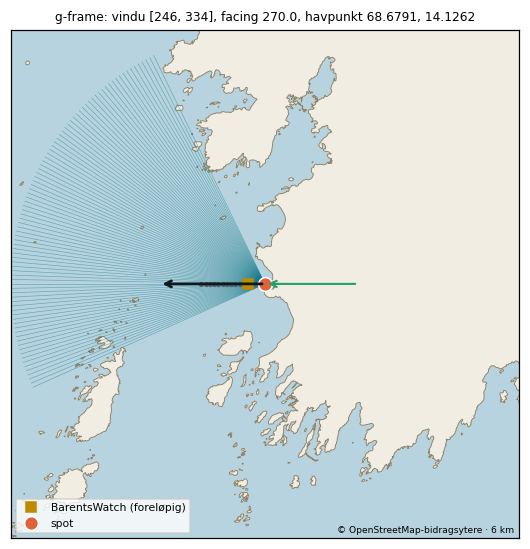
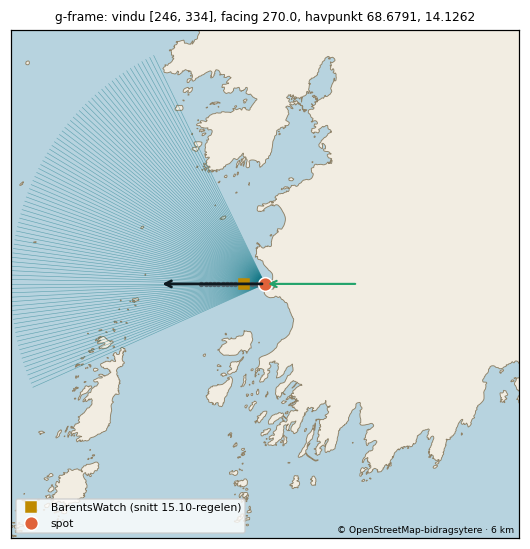
T1 Lofoten/Vesterålen: g-frame rettet (Theodors ja 12.11), fortsatt holdt tilbake
- facing 270 som bølgeretning ved revet (lavere sikkerhet), offshore [45, 135].
- BarentsWatch-punktet flyttet til 500 m ut langs 270 (9,2 m dyp) etter snittet
  12.11. Valgt på én time med svell fra vinduet; Hs og dybde holder i alle 18.
- enabled: false står. Slås på først med Theodors ja, etter neste vestsvell.
- Pakka og oversikten er tegnet på nytt. Fysikk-kontrollør: godkjent.

Changed region(s): [[0.2415, 0.898, 0.483, 0.9909], [0.4528, 0.4954, 0.483, 0.5264]]

diff --git a/data/kandidater/bygget/lofoten-vesteralen.md b/data/kandidater/bygget/lofoten-vesteralen.md
@@ -1,6 +1,6 @@
 # Gjennomgangspakke: Lofoten, Vesterålen (27 spots)
 
-Laget 2026-11-10 av tools/region_pakke.py fra spots.json (gjelder der spoten ligger inne) og fabrikkens forslag (data/kandidater/bygget/<id>.json). 15 publisert, 5 holdt tilbake, 3 parkert, 4 venter på lokalkunnskap.
+Laget 2026-11-12 av tools/region_pakke.py fra spots.json (gjelder der spoten ligger inne) og fabrikkens forslag (data/kandidater/bygget/<id>.json). 15 publisert, 5 holdt tilbake, 3 parkert, 4 venter på lokalkunnskap.
 
 Vindu: fri linje 150 km over GSHHS f (300 m kysttoleranse). Facing: strandnormal ±150 m langs kysten. Offshore-vind: motsatt av facing ±45° når ikke annet står. BarentsWatch-punkt: snittregelen 15.10 (første punkt utover med minst 8 m dyp og flat Hs). Tidevann: Kartverkets referansested for posisjonen. Vern: Naturbase innen 2 km, målt fra spotens posisjon der oppslaget finnes (ellers fra listepinnen, og da står det), forskriften lest på Lovdata. Sikkerhet: A = navn, strandtype, synlig bølge/formasjon og retning stemmer; B = to av fire; C = resten (bygges ikke).
 
@@ -11,6 +11,7 @@ Vindu: fri linje 150 km over GSHHS f (300 m kysttoleranse). Facing: strandnormal
 - **#22 er merget til main (10.11.2026).** Claudes gjennomgang 16.10 ga 14 godkjent og 6 rettet (20 nye spots), og flakstad-beach-kirkesiden og rorvika parkert. eggum-ost-steinstrand ble parkert samme dag, så 19 nye ligger i spots.json. 14 av dem er publisert, og 5 holdes tilbake. Med Unstad, som lå der fra før, er 15 spots i regionene live.
 - **Pakka er laget på nytt fra spots.json.** Den forrige utgaven av tabellen (16.10) viste verdiene fra før rettelsene (unstad-left 285°, soppelplassen 300°). Gjeldende verdier står i tabellene under.
 - **Rettet etter gjennomgangen 16.10:** unstad-left, unstad-right og soppelplassen har Unstads facing 294,8° (kontrollørens andre runde). horseid har facing 305°. g-frame har BarentsWatch-punktet flyttet fra 1 400 m til 1 900 m ut, fordi 1 400 m lå i et grunnfelt.
+- **g-frame 12.11.2026 (Theodors ja):** facing er satt til 270° som bølgeretning ved revet (ikke strandnormal, lavere sikkerhet), offshore til 45-135°, og BarentsWatch-punktet er flyttet til 500 m ut langs 270° (9,2 m dyp, snittet 12.11). Punktet er valgt på én time med Hs 0,36 m, så det bør ses igjen i neste vestsvell. Spoten er fortsatt holdt tilbake.
 - **Holdt tilbake siden 16.10:** g-frame, unstad-left, unstad-right og soppelplassen (`enabled: false`).
 - **Holdt tilbake 10.11:** ramberg, til T2b er avgjort (Theodors ja 10.11).
 - **Parkert:** eggum-ost-steinstrand (eget snitt 16.10 fant ikke noe punkt), rorvika og flakstad-beach-kirkesiden.
@@ -21,7 +22,7 @@ Vindu: fri linje 150 km over GSHHS f (300 m kysttoleranse). Facing: strandnormal
 Hele svaret ligger i `lofoten-vesteralen-gjennomgang.csv` (én linje per spot): **17 godkjent, 3 rett, 7 avvis.** Kommentarene for eggum, eggum-ost-steinstrand og g-frame er presisert etter kontrollørens gjennomgang (retningen til reservatet, snitt i stedet for spenn, og bølgeretningen i snittet). Beslutningene er uendret.
 
 - **Godkjent (17):** de 14 nye publiserte, Unstad, unstad-left og unstad-right. Facing ligger innenfor spennet OSM-kysten gir (±150 til ±500 m rundt spoten) for 13 av de 14 nye. Spennet er bredt for skagsanden (313-348°), haukland (210-235°) og kvalnes (337-348°). Unntaket er horseid, der 305° er satt med vilje (fabrikken gir 192-231°, langs stranda), så et nytt fabrikkbygg må ikke skrive over den.
-- **Rett (3):** g-frame, ramberg og soppelplassen. Ingen av dem er live, og ingenting er endret i spots.json. Se tabellen under.
+- **Rett (3):** g-frame, ramberg og soppelplassen. Ingen av dem er live. g-frame er rettet i spots.json 12.11 (fortsatt `enabled: false`), de to andre er uendret. Se tabellen under.
 - **Avvis (7):** aknes, andenes, broken-hearts og g-force venter på lokalkunnskap. eggum-ost-steinstrand, rorvika og flakstad-beach-kirkesiden blir stående parkert.
 
 Svar på spørsmålene til gjennomgangen:
@@ -35,7 +36,7 @@ Svar på spørsmålene til gjennomgangen:
 
 | Spot | Hva som mangler | Hvem |
 |---|---|---|
-| g-frame | Bølgene kom fra vest i snittet 16.10 (100 m til 3 km): medianen er 254-284° i alle snittpunktene utenom grunnfeltet ved 1 700-1 800 m, og 87 % av timene ligger innenfor 246-288°. Facing 330° følger kysten nordover. Spotansvarlig anbefaler facing ca. 270°, offshore 45-135° og nytt snitt langs 270°. BarentsWatch-punktet 1 900 m ut (9,9 m) ligger utenfor fabrikkens 1,5 km og har lavere sikkerhet. Teksten `_barentswatch` i spots.json nevner både det gjeldende punktet og det gamle (1 400 m, 6,0 m). Den ryddes sammen med facing. | Theodor (spørsmål i til-theodor.md) |
+| g-frame | Rettet 12.11 (Theodors ja): facing 270° som bølgeretning ved revet, offshore 45-135°, BarentsWatch-punkt 500 m ut langs 270° (9,2 m). Bakgrunn: bølgene kom fra vest i snittet 16.10 (medianen 254-284°), og revet har ingen entydig strandnormal. I snittet 12.11 kom svellet ute fra nord (bare én av 18 timer fra vinduet), og retningen ved punktet var 299-326°, altså 29-56° fra facing. 400 m-punktet (8,9 m) ga 0,20 m når 500 m ga 0,36 m kl. 12Z, og lå lavere enn 500 m i alle 18 timene (i 8 av dem med retning fra land), så regelen valgte 500 m. Gjenstår: se punktet og retningen i neste vestsvell, og så Theodors ja til å slå på. | Theodor |
 | unstad-left, unstad-right, soppelplassen | Ga 3,4-4,2 m når Unstad ga 1,6-1,8 m samme time i prøvevarselet 16.10 kl. 11Z (unstad-left ligger 250 m fra Unstad, unstad-right 485 m og soppelplassen 996 m). Unstads BarentsWatch-punkt (250 m ut) ligger trolig i brytesonen (ROADMAP N). Snittene deres ble tatt langs fabrikkens første facing (334° / 239° / 344°), ikke langs 294,8°. Når N er avgjort i T2: nye snitt langs 294,8° for unstad-left og unstad-right, og så ett samlet spørsmål til Theodor. | Theodor, etter T2 |
 | soppelplassen (i tillegg) | Offshore-vinden er utvidet til 70-209° uten observasjon eller navngitt kilde. Spotansvarlig anbefaler 70-160°. Høydene [1,5, 3,5] mangler begrunnelse. Det samme gjelder høydene for g-frame, unstad-left og unstad-right («forslag fra Claude 16.10, ukalibrert»). Tas i det samlede spørsmålet etter N. | Theodor, etter T2 |
 | ramberg | Venter på T2b (Unstad mot Flakstad). Posisjonen og punktet (900 m ut, 9,6 m) er godkjent av spotansvarlig. Facing 287,7° er strandnormalen, men ligger 9° utenfor eget vindu (297-348°), og bølgene ved punktet kom fra 327-330°. Facing 315° og offshore 90-180° ligger på grenen region/ramberg-315 og flytter spoten fra 0 til 2 stjerner. | Theodor, etter T2b |
@@ -70,7 +71,7 @@ Eggum er publisert uten forbud. Eggum naturreservat (surfebrett forbudt hele år
 | eggum-ost-steinstrand | Eggum øst (steinstrand) | Lofoten | parkert | B | 11.5° | 283–31° | 146–236° | ikke funnet (se «Usikkert») |
 | flakstad-beach-kirkesiden | Flakstad Beach (kirkesiden) | Lofoten | parkert | B | 50.2° | – | 185–275° | ikke funnet (se «Usikkert») |
 | g-force | G-force | Vesterålen | venter på lokalkunnskap | C (forslag, ikke godkjent) | – | – | – | – |
-| g-frame | G-frame | Vesterålen | holdt tilbake | B | 330.0° | 246–334° | 105–195° | 68.653782, 14.40406 (1907 m ut i retning 330°, 9.9 m dyp) |
+| g-frame | G-frame | Vesterålen | holdt tilbake | B | 270.0° | 246–334° | 45–135° | 68.6389, 14.415158 (499 m ut i retning 270°, 9.2 m dyp) |
 | haukland | Haukland | Lofoten | publisert | B | 225.0° | 252–276° | 0–90° | 68.194957, 13.51855 (401 m ut i retning 225°, 8.0 m dyp) |
 | horseid | Horseid | Lofoten | publisert | B | 305.0° | 308–4° | 80–170° | 68.028625, 12.978899 (400 m ut i retning 305°, 9.5 m dyp) |
 | hoyvika | Høyvika | Vesterålen | publisert | B | 261.5° | 233–296° | 36–126° | 69.232612, 15.848527 (599 m ut i retning 261°, 8.8 m dyp) |
@@ -98,7 +99,7 @@ Eggum er publisert uten forbud. Eggum naturreservat (surfebrett forbudt hele år
 | eggum-ost-steinstrand | parkert | Parkeres. Eggums BarentsWatch-punkt ligger 1 458 m unna med bølger fra 268-314° (57-103° fra facing 11,5°, retningsfaktor ca. 0). Eget snitt langs facing (16.10, result_2026-10-16T1118_kandidater.json) fant ikke noe punkt: grunn hylle 6-7 m dyp og skjær 1,2-1,4 km ut, aldri 8 m innen 1,5 km. Tas opp igjen med et lengre snitt eller et punkt utenfor skjærene (Theodor velger). |
 | flakstad-beach-kirkesiden | parkert | Parkeres. Ligger i le bak halvøya og får bare dønning som brekker rundt odden (wrap). Fabrikken finner ingen fri linje til havet, så ratingen ville alltid vist «Treffer ikke». Tas opp igjen når vi har en modell for wrap. |
 | g-force | venter på lokalkunnskap | Listepinnen (eksakt) er beholdt, men den ligger foran steinkanten sør for den lille sandstranda. Kan høre til foran stranda ca. 100 m nordøst. |
-| g-frame | holdt tilbake | Holdt tilbake (Theodors ja 16.10, chat): retningen ved BarentsWatch-punktet 1 900 m ut (251-284° i prøvevarselet 16.10 11Z) ligger 46-79° fra facing 330 → retningsfaktor 0-0,6. Slås på når retningen ved punktet er avklart. |
+| g-frame | holdt tilbake | Holdt tilbake (Theodors ja 16.10, chat). 12.11.2026: facing er satt til 270 som bølgeretning ved revet (lavere sikkerhet), og BarentsWatch-punktet er flyttet til 500 m ut langs 270 (snittet 12.11). Punktet er valgt på én time (12.11 12Z, Hs 0,36 m), den eneste av 18 der svellet ute kom fra vinduet. Svellet ute kom ellers fra nord (343-17°), og retningen ved punktet var 299-326°, altså 29-56° fra facing. Slås på først med Theodors ja, etter at punktet og retningen er sett i vestsvell. |
 | ramberg | holdt tilbake | Holdt tilbake (Theodors ja 10.11.2026): venter på T2b (Unstad mot Flakstad, Lofoten Surfsenter). Facing 315 og offshore [90,180] ligger på grenen region/ramberg-315 og flytter Ramberg fra 0 til 2 stjerner. Slås på når T2b er avgjort. |
 | rorvika | parkert | Parkeres. Vinduet er bare ca. 6 grader (222-234) mot Vestfjorden, så den vil nesten alltid vise «Treffer ikke», og BarentsWatch fant intet punkt. Vurderes igjen når vi har vindbølgemodell for innaskjærs spots. |
 | soppelplassen | holdt tilbake | Holdt tilbake (kontrollør 16.10, Claude delegert): i prøvevarselet 16.10 11Z gir spoten 3,4-4,2 m mens Unstad 250-600 m unna gir 1,6-1,8 m samme time (Unstads BarentsWatch-punkt ligger trolig i brytesonen - ROADMAP N). Slås på når Theodor har avgjort Unstads punkt/prior, eller med Theodors ja til å publisere med merknad. |
@@ -275,17 +276,17 @@ Open-Meteo: vekt 1,14 per punkt (16 dager), to bølgemodeller per havpunkt og et
 | | |
 |---|---|
 | Posisjon | 68.6389, 14.427489 - godkjent forslag (flyfoto), claude (delegert av Theodor 16.10.2026), 2026-10-16. 0 m fra listepinnen. Rev i bukta ved Gimstad/Skagen. Listepinnen (eksakt) ligger over grunnområdet ca. 70 m fra land og er beholdt. |
-| Facing | 330.0° |
+| Facing | 270.0° |
 | Svellvindu | 246–334° |
-| Offshore-vind | 105–195° |
+| Offshore-vind | 45–135° |
 | Havpunkt | 68.6791, 14.1262 (13 km ut i retning 290°) |
-| BarentsWatch-punkt | 68.653782, 14.40406 (1907 m ut i retning 330°, 9.9 m dyp)<br>Flyttet til 1900 m ut i snittet langs 330.0° (dybde 9.9 m) - kontrollørens funn i #22 (Claude, delegert av Theodor 16.10.2026), ukalibrert: 1 400 m lå i et grunnfelt (1 700-1 800 m er 2-3 m dypt), 1 900 m er første punkt utenfor siste grunne. Snitt langs facing (data/bw_point_search/result_2026-10-16T1036_kandidater.json), første punkt med dybde ≥ 6 m og BarentsWatch-data (retting fra gjennomgangen): snitt 1400m@330.0, 1400 m ut, dybde 6,0 m. |
-| Eksponering | vindu 88° bredt, facing 40° fra midten; ingen geometrisk grunnlinje ennå - henteren bruker vindu og skyggekurve som reserve |
+| BarentsWatch-punkt | 68.6389, 14.415158 (499 m ut i retning 270°, 9.2 m dyp)<br>Snitt langs facing (data/bw_point_search/result_2026-11-12T1716_kandidater.json), regelen fra 15.10: snitt 500m@270.0, 500 m ut, dybde 9,2 m, Hs 0,36 m kl. 2026-11-12T12:00Z. Bare 1 av 18 timer hadde svell ute fra vinduet (12Z). Hs-hoppet fra 400 m til 500 m og det flate fra 500 m til 600 m ses i alle 18 timene. Lavere sikkerhet, ses igjen i vestsvell. |
+| Eksponering | vindu 88° bredt, facing 20° fra midten; ingen geometrisk grunnlinje ennå - henteren bruker vindu og skyggekurve som reserve |
 | Tidevannssted | Andenes (-5 min), faktor 1.00 |
 | Høyder | ideal [1.0, 2.5], maks 3.5 |
 | Vern/forbud | ingen verneområder innen 2 km av spoten |
 | Sikkerhet | B |
-| Usikkert | Holdt tilbake (Theodors ja 16.10, chat): retningen ved BarentsWatch-punktet 1 900 m ut (251-284° i prøvevarselet 16.10 11Z) ligger 46-79° fra facing 330 → retningsfaktor 0-0,6. Slås på når retningen ved punktet er avklart.<br>BarentsWatch-punktet ligger 1907 m ut, utenfor fabrikkens 1,5 km: lavere sikkerhet<br>offshore-vind: standard, ubekreftet (motsatt av facing ±45°)<br>ideal_height [1.0, 2.5] / max_height 3.5: forslag fra Claude 16.10, ukalibrert<br>barentswatch_point rettet: 1900 m ut (kontrollørens funn i #22 (Claude, delegert av Theodor 16.10.2026), ukalibrert: 1 400 m lå i et grunnfelt (1 700-1 800 m er 2-3 m dypt), 1 900 m er første punkt utenfor siste grunne) |
+| Usikkert | Holdt tilbake (Theodors ja 16.10, chat). 12.11.2026: facing er satt til 270 som bølgeretning ved revet (lavere sikkerhet), og BarentsWatch-punktet er flyttet til 500 m ut langs 270 (snittet 12.11). Punktet er valgt på én time (12.11 12Z, Hs 0,36 m), den eneste av 18 der svellet ute kom fra vinduet. Svellet ute kom ellers fra nord (343-17°), og retningen ved punktet var 299-326°, altså 29-56° fra facing. Slås på først med Theodors ja, etter at punktet og retningen er sett i vestsvell.<br>offshore-vind: standard: motsatt facing ±45°, ubekreftet (Theodors ja 12.11.2026)<br>ideal_height [1.0, 2.5] / max_height 3.5: forslag fra Claude 16.10, ukalibrert<br>barentswatch_point rettet: nytt snitt langs 270.0° (bølgeretning ved revet, ikke strandnormal (rev uten entydig strandnormal) - lavere sikkerhet (Theodors ja 12.11.2026))<br>offshore_wind rettet: standard: motsatt facing ±45°, ubekreftet (Theodors ja 12.11.2026)<br>facing rettet: bølgeretning ved revet, ikke strandnormal (rev uten entydig strandnormal) - lavere sikkerhet (Theodors ja 12.11.2026) |
 
 ![g-frame](g-frame.png)
 

diff --git a/data/kandidater/bygget/lofoten-vesteralen.notater.md b/data/kandidater/bygget/lofoten-vesteralen.notater.md
@@ -3,6 +3,7 @@
 - **#22 er merget til main (10.11.2026).** Claudes gjennomgang 16.10 ga 14 godkjent og 6 rettet (20 nye spots), og flakstad-beach-kirkesiden og rorvika parkert. eggum-ost-steinstrand ble parkert samme dag, så 19 nye ligger i spots.json. 14 av dem er publisert, og 5 holdes tilbake. Med Unstad, som lå der fra før, er 15 spots i regionene live.
 - **Pakka er laget på nytt fra spots.json.** Den forrige utgaven av tabellen (16.10) viste verdiene fra før rettelsene (unstad-left 285°, soppelplassen 300°). Gjeldende verdier står i tabellene under.
 - **Rettet etter gjennomgangen 16.10:** unstad-left, unstad-right og soppelplassen har Unstads facing 294,8° (kontrollørens andre runde). horseid har facing 305°. g-frame har BarentsWatch-punktet flyttet fra 1 400 m til 1 900 m ut, fordi 1 400 m lå i et grunnfelt.
+- **g-frame 12.11.2026 (Theodors ja):** facing er satt til 270° som bølgeretning ved revet (ikke strandnormal, lavere sikkerhet), offshore til 45-135°, og BarentsWatch-punktet er flyttet til 500 m ut langs 270° (9,2 m dyp, snittet 12.11). Punktet er valgt på én time med Hs 0,36 m, så det bør ses igjen i neste vestsvell. Spoten er fortsatt holdt tilbake.
 - **Holdt tilbake siden 16.10:** g-frame, unstad-left, unstad-right og soppelplassen (`enabled: false`).
 - **Holdt tilbake 10.11:** ramberg, til T2b er avgjort (Theodors ja 10.11).
 - **Parkert:** eggum-ost-steinstrand (eget snitt 16.10 fant ikke noe punkt), rorvika og flakstad-beach-kirkesiden.
@@ -13,7 +14,7 @@
 Hele svaret ligger i `lofoten-vesteralen-gjennomgang.csv` (én linje per spot): **17 godkjent, 3 rett, 7 avvis.** Kommentarene for eggum, eggum-ost-steinstrand og g-frame er presisert etter kontrollørens gjennomgang (retningen til reservatet, snitt i stedet for spenn, og bølgeretningen i snittet). Beslutningene er uendret.
 
 - **Godkjent (17):** de 14 nye publiserte, Unstad, unstad-left og unstad-right. Facing ligger innenfor spennet OSM-kysten gir (±150 til ±500 m rundt spoten) for 13 av de 14 nye. Spennet er bredt for skagsanden (313-348°), haukland (210-235°) og kvalnes (337-348°). Unntaket er horseid, der 305° er satt med vilje (fabrikken gir 192-231°, langs stranda), så et nytt fabrikkbygg må ikke skrive over den.
-- **Rett (3):** g-frame, ramberg og soppelplassen. Ingen av dem er live, og ingenting er endret i spots.json. Se tabellen under.
+- **Rett (3):** g-frame, ramberg og soppelplassen. Ingen av dem er live. g-frame er rettet i spots.json 12.11 (fortsatt `enabled: false`), de to andre er uendret. Se tabellen under.
 - **Avvis (7):** aknes, andenes, broken-hearts og g-force venter på lokalkunnskap. eggum-ost-steinstrand, rorvika og flakstad-beach-kirkesiden blir stående parkert.
 
 Svar på spørsmålene til gjennomgangen:
@@ -27,7 +28,7 @@ Svar på spørsmålene til gjennomgangen:
 
 | Spot | Hva som mangler | Hvem |
 |---|---|---|
-| g-frame | Bølgene kom fra vest i snittet 16.10 (100 m til 3 km): medianen er 254-284° i alle snittpunktene utenom grunnfeltet ved 1 700-1 800 m, og 87 % av timene ligger innenfor 246-288°. Facing 330° følger kysten nordover. Spotansvarlig anbefaler facing ca. 270°, offshore 45-135° og nytt snitt langs 270°. BarentsWatch-punktet 1 900 m ut (9,9 m) ligger utenfor fabrikkens 1,5 km og har lavere sikkerhet. Teksten `_barentswatch` i spots.json nevner både det gjeldende punktet og det gamle (1 400 m, 6,0 m). Den ryddes sammen med facing. | Theodor (spørsmål i til-theodor.md) |
+| g-frame | Rettet 12.11 (Theodors ja): facing 270° som bølgeretning ved revet, offshore 45-135°, BarentsWatch-punkt 500 m ut langs 270° (9,2 m). Bakgrunn: bølgene kom fra vest i snittet 16.10 (medianen 254-284°), og revet har ingen entydig strandnormal. I snittet 12.11 kom svellet ute fra nord (bare én av 18 timer fra vinduet), og retningen ved punktet var 299-326°, altså 29-56° fra facing. 400 m-punktet (8,9 m) ga 0,20 m når 500 m ga 0,36 m kl. 12Z, og lå lavere enn 500 m i alle 18 timene (i 8 av dem med retning fra land), så regelen valgte 500 m. Gjenstår: se punktet og retningen i neste vestsvell, og så Theodors ja til å slå på. | Theodor |
 | unstad-left, unstad-right, soppelplassen | Ga 3,4-4,2 m når Unstad ga 1,6-1,8 m samme time i prøvevarselet 16.10 kl. 11Z (unstad-left ligger 250 m fra Unstad, unstad-right 485 m og soppelplassen 996 m). Unstads BarentsWatch-punkt (250 m ut) ligger trolig i brytesonen (ROADMAP N). Snittene deres ble tatt langs fabrikkens første facing (334° / 239° / 344°), ikke langs 294,8°. Når N er avgjort i T2: nye snitt langs 294,8° for unstad-left og unstad-right, og så ett samlet spørsmål til Theodor. | Theodor, etter T2 |
 | soppelplassen (i tillegg) | Offshore-vinden er utvidet til 70-209° uten observasjon eller navngitt kilde. Spotansvarlig anbefaler 70-160°. Høydene [1,5, 3,5] mangler begrunnelse. Det samme gjelder høydene for g-frame, unstad-left og unstad-right («forslag fra Claude 16.10, ukalibrert»). Tas i det samlede spørsmålet etter N. | Theodor, etter T2 |
 | ramberg | Venter på T2b (Unstad mot Flakstad). Posisjonen og punktet (900 m ut, 9,6 m) er godkjent av spotansvarlig. Facing 287,7° er strandnormalen, men ligger 9° utenfor eget vindu (297-348°), og bølgene ved punktet kom fra 327-330°. Facing 315° og offshore 90-180° ligger på grenen region/ramberg-315 og flytter spoten fra 0 til 2 stjerner. | Theodor, etter T2b |

diff --git a/STATUS.md b/STATUS.md
@@ -1,5 +1,13 @@
 # Nordsurf: status
 
+## T1 Lofoten/Vesterålen: g-frame rettet 12.11.2026 (Theodors ja), fortsatt holdt tilbake
+
+- **facing 270°** som bølgeretning ved revet (ikke strandnormal, lavere sikkerhet), **offshore_wind [45, 135]**, og **BarentsWatch-punktet 500 m ut langs 270°** (9,2 m dyp). Snittet er kjørt i Actions 12.11 (`data/bw_point_search/result_2026-11-12T1716_kandidater.json`), og punktet er valgt av regelen fra 15.10 (`tools/velg_bw_punkt.py`).
+- **Svakhet:** punktet er valgt på én time (12.11 12Z, Hs 0,36 m). Bare den timen av 18 hadde svell ute fra vinduet. Ellers kom svellet fra nord, og retningen ved punktet var 299-326°, altså 29-56° fra facing.
+- **`enabled: false` står.** Ingen tall i appen endres. Gjenstår: se punktet og retningen i neste vestsvell, og så Theodors ja til å slå på.
+- **Fysikk-kontrollør: godkjent.** Tallene stemmer med resultatfila, og regelen er riktig brukt. Hs- og dybdedelen av regelen velger 500 m i alle 18 timene (400 m ligger i le bak grunnfeltet). Retningskriteriet hviler på én time. Merknad til senere: i den timen sto bølgene 37° fra facing ved punktet (307° mot 270°). Holder det i vestsvell, vil retningsfaktoren straffe treff fra nordvest, og det må vurderes før spoten slås på.
+- Pakka (`data/kandidater/bygget/lofoten-vesteralen.md`) er laget på nytt.
+
 ## T0 - svarene dine 10.11.2026 og main-pushen
 
 **Avgjort (Theodor 10.11):**
